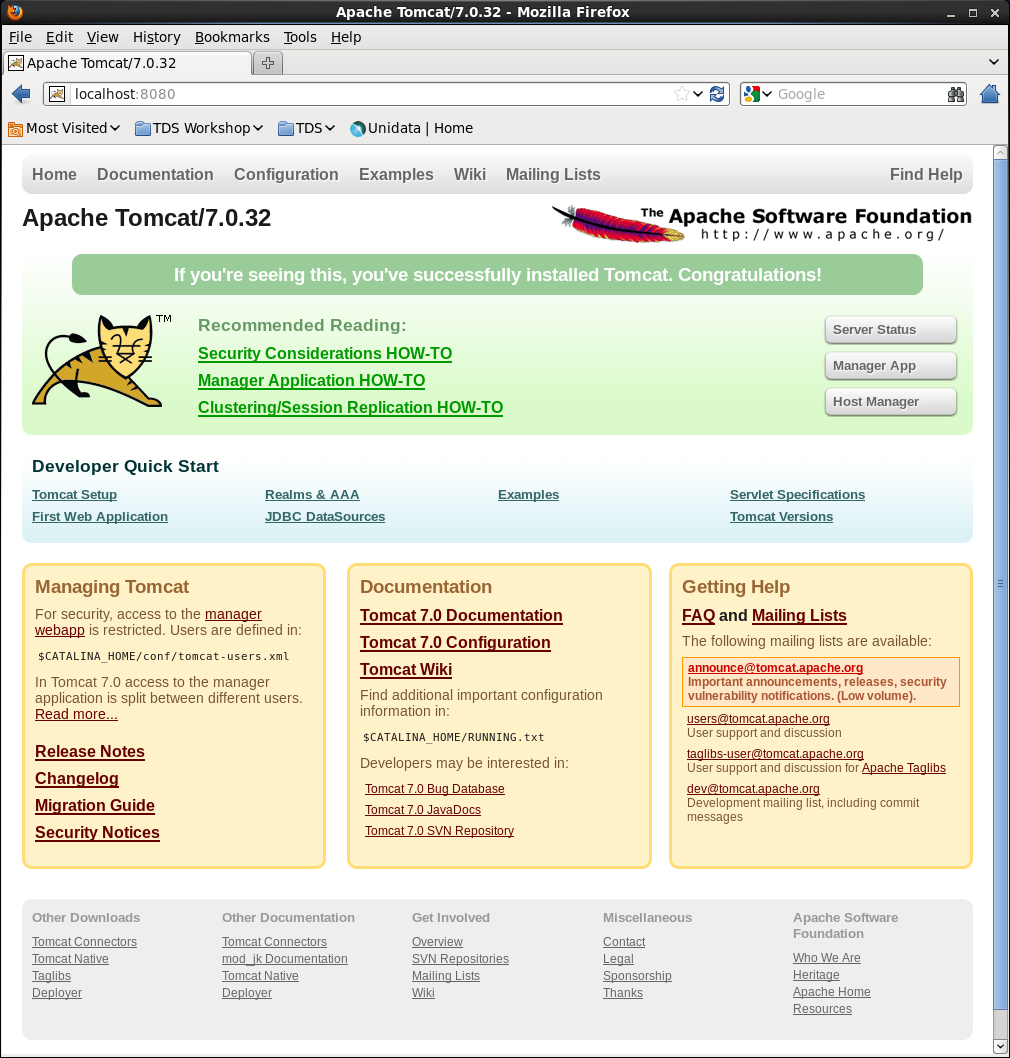
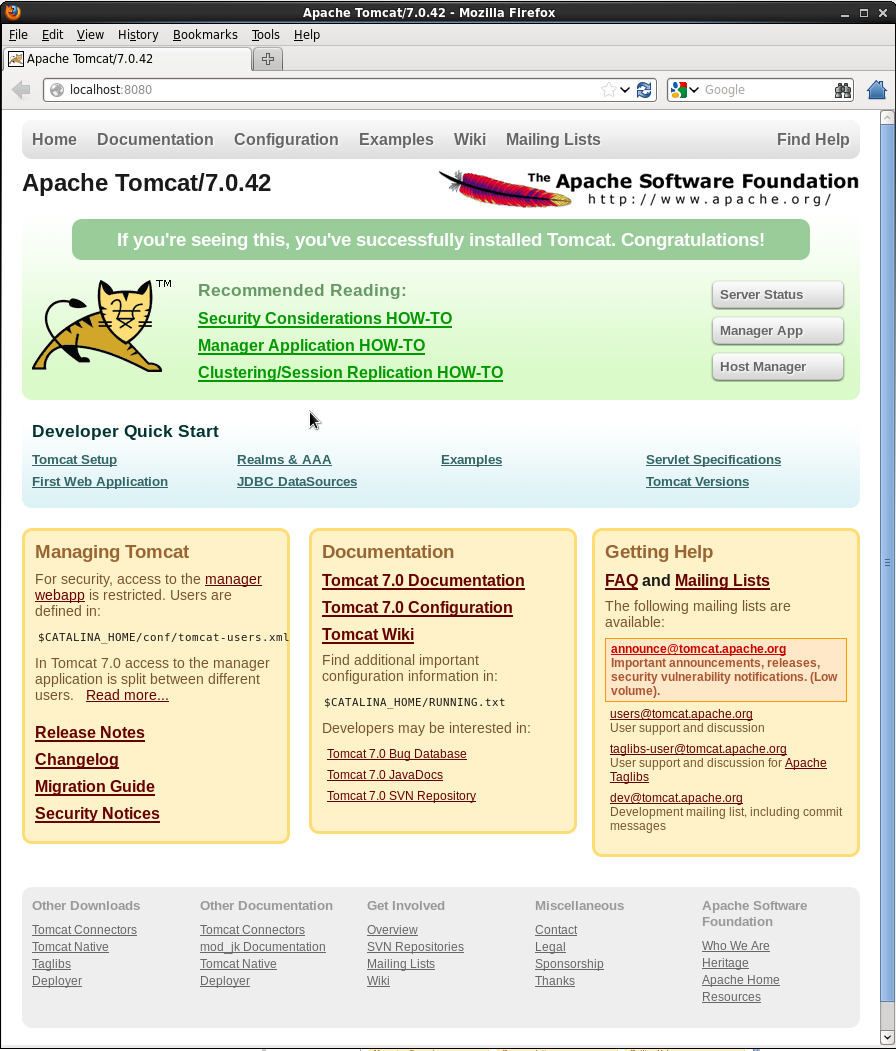
updated for 2013 workshop

diff --git a/docs/web/thredds/tech/tds4.3/tutorial/GettingStarted.html b/docs/web/thredds/tech/tds4.3/tutorial/GettingStarted.html
@@ -1,13 +1,17 @@
 <!DOCTYPE HTML PUBLIC "-//W3C//DTD HTML 4.01 Transitional//EN" "http://www.w3.org/TR/html4/loose.dtd">
  <html>
   <head>
-   <title>Getting started with the TDS: Local test server setup</title>
+   <title>TDS Tutorial: Getting started with the TDS: Local Test Server Setup</title>
    <link rel="stylesheet" href="tutorial2.css" type="text/css" /> 
-   <script type="text/javascript" src="workshopNav.js"></script>
+   <link rel="SHORTCUT ICON" href="http://www.unidata.ucar.edu/favicon.ico" type="image/x-icon" />
   </head>
   <body>
- 
-   <h1>Getting started with the TDS: local test server setup</h1>    
+   <ul id="breadcrumbs">
+    <li><a href="/projects/THREDDS/tech/tutorial/workshop2013.html">TDS Workshop Home</a></li> 
+    <li>Getting started with the TDS: Local Test Server Setup</li>
+   </ul>
+
+   <h1>Getting started with the TDS: Local Test Server Setup</h1>    
    <div id="section">
     <h2><a name="install">Installing Java and Tomcat</a></h2>
 
@@ -25,20 +29,31 @@
      <p>While there are different distributors of Java and servlet containers, Unidata develops, uses and tests the THREDDS Data Server using <i>Sun Java</i> and the <i>Apache Tomcat</i> servlet container.</p>
 
 
-     <h3>Installing Java<a name="installJava"></a></h3>
+     <h3>Installing Java</h3>
      <ol>
       <li><a href="http://www.oracle.com/technetwork/java/javase/downloads/">Download</a> current Java SE Developer Kit (JDK) from Sun. Use the latest 1.7 version of the JDK.</li>
        <p>At the time of this workshop, that is version <i>Java SE 7u25</i>.  We will be using the Linux x64-bit tar.gz file:</p>
        <p><code>jdk-7u25-linux-x64.tar.gz</code></p>
       <li>Install the JDK as per the Sun <a href="http://docs.oracle.com/javase/7/docs/webnotes/install/">installation instructions</a>.</li>
-        <p>Copy the binary tar.gz file into the installation directory (<code>/home/tds/</code> in this example):</p>
+        <p>Copy the binary tar.gz file into the installation directory (<code>/usr/local/tds/</code> in this example):</p>
 
 <pre>
 <b>$</b> pwd
-/home/tds
+/usr/local/tds
+<b>$</b> cp Downloads/jdk-7u25-linux-x64.tar.gz .
 
 <b>$</b> ls -l  
--rw-r--r-- 1 tds workshop 96316511 Jul 15 09:30 jdk-7u25-linux-x64.tar.gz
+drwxr-xr-x  2 tds workshop     4096 Jul 15 10:33 Desktop
+drwxr-xr-x  2 tds workshop     4096 Jul 15 10:33 Documents
+drwxr-xr-x  2 tds workshop     4096 Jul 22 17:29 Downloads
+<b>-rw-r--r--  1 tds workshop 96316511 Jul 15 09:30 jdk-7u25-linux-x64.tar.gz</b>
+drwxr-xr-x  2 tds workshop     4096 Jul 15 10:33 Music
+drwxr-xr-x  2 tds workshop     4096 Jul 15 10:33 Pictures
+drwxr-xr-x  2 tds workshop     4096 Jul 15 10:33 Public
+drwxr-xr-x  3 tds workshop     4096 Jul 15 10:45 tdsMonitor
+drwxr-xr-x  2 tds workshop     4096 Jul 15 10:33 Templates
+-rwxrwxr-x  1 tds workshop 27866303 Jul 15 10:02 toolsUI-4.3.18.jar
+drwxr-xr-x  2 tds workshop     4096 Jul 15 10:33 Videos
 </pre>
 
         <p>Unpack the archive file:</p>  
@@ -51,8 +66,18 @@
 
 <pre>
 <b>$</b> ls -l  
-<b>drwxr-xr-x 8 tds workshop     4096 Jun  5 22:07 jdk1.7.0_25</b>
--rw-r--r-- 1 tds workshop 96316511 Jul 15 09:30 jdk-7u25-linux-x64.tar.gz
+drwxr-xr-x  2 tds workshop     4096 Jul 15 10:33 Desktop
+drwxr-xr-x  2 tds workshop     4096 Jul 15 10:33 Documents
+drwxr-xr-x  2 tds workshop     4096 Jul 23 14:40 Downloads
+<b>drwxr-xr-x  8 tds workshop     4096 Jun  5 22:07 jdk1.7.0_25</b>
+-rw-r--r--  1 tds workshop 96316511 Jul 15 09:30 jdk-7u25-linux-x64.tar.gz
+drwxr-xr-x  2 tds workshop     4096 Jul 15 10:33 Music
+drwxr-xr-x  2 tds workshop     4096 Jul 15 10:33 Pictures
+drwxr-xr-x  2 tds workshop     4096 Jul 15 10:33 Public
+drwxr-xr-x  3 tds workshop     4096 Jul 15 10:45 tdsMonitor
+drwxr-xr-x  2 tds workshop     4096 Jul 15 10:33 Templates
+-rwxrwxr-x  1 tds workshop 27866303 Jul 15 10:02 toolsUI-4.3.18.jar
+drwxr-xr-x  2 tds workshop     4096 Jul 15 10:33 Videos
 </pre>
 
       <div id="expanded" class="troubleshooting">
@@ -66,7 +91,7 @@
 
 
 
-      <h3>Installing Tomcat<a name="installTomcat"></a></h3>
+     <h3>Installing Tomcat</h3>
     <div id="note" class="info">
      <h4>Tomcat on Windows</h4>
      <p>For more information about installing Tomcat on Windows OS, see the <a href="http://tomcat.apache.org/tomcat-7.0-doc/setup.html#Windows">Tomcat setup guide</a> for installation on different platforms.</p>
@@ -76,16 +101,26 @@
         <p>At the time of this workshop, that is version <i>7.0.42</i>. We will be using the binary tar.gz file:</p>
         <p><code>apache-tomcat-7.0.42.tar.gz</code></p>
        <li>Install Tomcat as per the Apache Tomcat <a href="http://tomcat.apache.org/tomcat-7.0-doc/setup.html">installation instructions</a>.</li>
-        <p>Copy the binary tar.gz file into the installation directory (<code>/home/tds/</code> in this example):</p>
+        <p>Copy the binary tar.gz file into the installation directory (<code>/usr/local/tds/</code> in this example):</p>
 
 <pre>
 <b>$</b> pwd
-/home/tds/
+/usr/local/tds
 
 <b>$</b> ls -l 
 <b>-rw-r--r-- 1 tds workshop  7955948 Jul 15 09:35 apache-tomcat-7.0.42.tar.gz</b>
-drwxr-xr-x 8 tds workshop     4096 Jun  5 22:07 jdk1.7.0_25
--rw-r--r-- 1 tds workshop 96316511 Jul 15 09:30 jdk-7u25-linux-x64.tar.gz
+drwxr-xr-x  2 tds workshop     4096 Jul 15 10:33 Desktop
+drwxr-xr-x  2 tds workshop     4096 Jul 15 10:33 Documents
+drwxr-xr-x  2 tds workshop     4096 Jul 23 14:40 Downloads
+drwxr-xr-x  8 tds workshop     4096 Jun  5 22:07 jdk1.7.0_25
+-rw-r--r--  1 tds workshop 96316511 Jul 15 09:30 jdk-7u25-linux-x64.tar.gz
+drwxr-xr-x  2 tds workshop     4096 Jul 15 10:33 Music
+drwxr-xr-x  2 tds workshop     4096 Jul 15 10:33 Pictures
+drwxr-xr-x  2 tds workshop     4096 Jul 15 10:33 Public
+drwxr-xr-x  3 tds workshop     4096 Jul 15 10:45 tdsMonitor
+drwxr-xr-x  2 tds workshop     4096 Jul 15 10:33 Templates
+-rwxrwxr-x  1 tds workshop 27866303 Jul 15 10:02 toolsUI-4.3.18.jar
+drwxr-xr-x  2 tds workshop     4096 Jul 15 10:33 Videos
 </pre>
 
         <p>Unpack the archive file:</p>  
@@ -100,8 +135,18 @@ drwxr-xr-x 8 tds workshop     4096 Jun  5 22:07 jdk1.7.0_25
 <b>$</b> ls -l
 <b>drwxr-xr-x 9 tds workshop     4096 Jul 15 09:37 apache-tomcat-7.0.42</b>
 -rw-r--r-- 1 tds workshop  7955948 Jul 15 09:35 apache-tomcat-7.0.42.tar.gz
-drwxr-xr-x 8 tds workshop     4096 Jun  5 22:07 jdk1.7.0_25
--rw-r--r-- 1 tds workshop 96316511 Jul 15 09:30 jdk-7u25-linux-x64.tar.gz
+drwxr-xr-x  2 tds workshop     4096 Jul 15 10:33 Desktop
+drwxr-xr-x  2 tds workshop     4096 Jul 15 10:33 Documents
+drwxr-xr-x  2 tds workshop     4096 Jul 23 14:40 Downloads
+drwxr-xr-x  8 tds workshop     4096 Jun  5 22:07 jdk1.7.0_25
+-rw-r--r--  1 tds workshop 96316511 Jul 15 09:30 jdk-7u25-linux-x64.tar.gz
+drwxr-xr-x  2 tds workshop     4096 Jul 15 10:33 Music
+drwxr-xr-x  2 tds workshop     4096 Jul 15 10:33 Pictures
+drwxr-xr-x  2 tds workshop     4096 Jul 15 10:33 Public
+drwxr-xr-x  3 tds workshop     4096 Jul 15 10:45 tdsMonitor
+drwxr-xr-x  2 tds workshop     4096 Jul 15 10:33 Templates
+-rwxrwxr-x  1 tds workshop 27866303 Jul 15 10:02 toolsUI-4.3.18.jar
+drwxr-xr-x  2 tds workshop     4096 Jul 15 10:33 Videos
 </pre>
       </ol>
 
@@ -189,7 +234,7 @@ drwxr-xr-x 2 tds workshop  4096 Jul  2 01:57 work
         <p>Run the <code>startup.sh</code> script in the Tomcat <code>bin/</code> directory:</p>
 <pre>
 <b>$</b> pwd
-/home/tds/apache-tomcat-7.0.42
+/usr/local/tds/apache-tomcat-7.0.42
 
 <b>$</b> bin/startup.sh
 </pre>
@@ -199,7 +244,7 @@ drwxr-xr-x 2 tds workshop  4096 Jul  2 01:57 work
 
 <pre>
 <b>$</b> ps -ef | grep tomcat
-tds      21912     1 29 09:39 pts/1    00:00:02 /usr/bin/java -Djava.util.logging.config.file=/home/tds/apache-tomcat-7.0.42/conf/logging.properties -Djava.util.logging.manager=org.apache.juli.ClassLoaderLogManager -Djava.endorsed.dirs=/home/tds/apache-tomcat-7.0.42/endorsed -classpath /home/tds/apache-tomcat-7.0.42/bin/bootstrap.jar:/home/tds/apache-tomcat-7.0.42/bin/tomcat-juli.jar -Dcatalina.base=/home/tds/apache-tomcat-7.0.42 -Dcatalina.home=/home/tds/apache-tomcat-7.0.42 -Djava.io.tmpdir=/home/tds/apache-tomcat-7.0.42/temp org.apache.catalina.startup.Bootstrap start
+tds      21912     1 29 09:39 pts/1    00:00:02 /usr/bin/java -Djava.util.logging.config.file=/usr/local/tds/apache-tomcat-7.0.42/conf/logging.properties -Djava.util.logging.manager=org.apache.juli.ClassLoaderLogManager -Djava.endorsed.dirs=/usr/local/tds/apache-tomcat-7.0.42/endorsed -classpath /usr/local/tds/apache-tomcat-7.0.42/bin/bootstrap.jar:/usr/local/tds/apache-tomcat-7.0.42/bin/tomcat-juli.jar -Dcatalina.base=/usr/local/tds/apache-tomcat-7.0.42 -Dcatalina.home=/usr/local/tds/apache-tomcat-7.0.42 -Djava.io.tmpdir=/usr/local/tds/apache-tomcat-7.0.42/temp org.apache.catalina.startup.Bootstrap start
 tds      21933 21675  0 09:39 pts/1    00:00:00 grep tomcat
 </pre>
 
@@ -248,7 +293,7 @@ tds      21933 21675  0 09:39 pts/1    00:00:00 grep tomcat
 
 <pre>
 <b>$</b> pwd
-/home/tds/apache-tomcat-7.0.42
+/usr/local/tds/apache-tomcat-7.0.42
 
 <b>$</b> cd bin
 <b>$</b> vi setenv.sh
@@ -260,13 +305,13 @@ tds      21933 21675  0 09:39 pts/1    00:00:00 grep tomcat
 #
 # ENVARS for Tomcat and TDS environment
 #
-JAVA_HOME="/home/tds/jdk1.7.0_25"
+JAVA_HOME="/usr/local/tds/jdk1.7.0_25"
 export JAVA_HOME
 
 JAVA_OPTS="-Xmx4096m -Xms512m -server -Djava.awt.headless=true -Djava.util.prefs.systemRoot=$CATALINA_BASE/content/thredds/javaUtilPrefs"
 export JAVA_OPTS
 
-CATALINA_BASE="/home/tds/apache-tomcat-7.0.42"
+CATALINA_BASE="/usr/local/tds/apache-tomcat-7.0.42"
 export CATALINA_BASE
 </pre>
      <div id="note" class="info">
@@ -277,7 +322,7 @@ export CATALINA_BASE
      <ul>
       <li><code>-Xms</code> is the initial allocated memory of the JVM (for performance).</li>
       <li><code>-Xmx</code> the maximum allocated memory of the JVM (for performance).</li>
-      <li><code>-server</code> tells the Hotspot compiler to run the JVM in "server" mode.</li>
+      <li><code>-server</code> tells the Hostspot compiler to run the JVM in "server" mode.</li>
       <li><code>-Djava.awt.headless=true</code> is needed to prevent graphics rendering code from assuming a graphics console exists. Without this, WMS code will crash the server in some circumstances.</li>
       <li><code style="white-space: nowrap;">-Djava.util.prefs.systemRoot=$CATALINA_BASE/content/thredds/javaUtilPrefs</code> allows the <a href="http://www.unidata.ucar.edu/projects/THREDDS/tech/tds4.3/faq.html#javaUtilPrefs">java.util.prefs</a> of the TDS WMS to write system preferences to a location that is writable by the Tomcat user.</li>
      </ul>
@@ -291,11 +336,11 @@ export CATALINA_BASE
 
 <pre>
 <b>$</b> ./startup.sh
-Using CATALINA_BASE:   /home/tds/apache-tomcat-7.0.42
-Using CATALINA_HOME:   /home/tds/apache-tomcat-7.0.42
-Using CATALINA_TMPDIR: /home/tds/apache-tomcat-7.0.42/temp
-Using JRE_HOME:        /home/tds/jdk1.7.0_25
-Using CLASSPATH:       /home/tds/apache-tomcat-7.0.42/bin/bootstrap.jar:/home/tds/apache-tomcat-7.0.42/bin/tomcat-juli.jar
+Using CATALINA_BASE:   /usr/local/tds/apache-tomcat-7.0.42
+Using CATALINA_HOME:   /usr/local/tds/apache-tomcat-7.0.42
+Using CATALINA_TMPDIR: /usr/local/tds/apache-tomcat-7.0.42/temp
+Using JRE_HOME:        /usr/local/tds/jdk1.7.0_25
+Using CLASSPATH:       /usr/local/tds/apache-tomcat-7.0.42/bin/bootstrap.jar:/usr/local/tds/apache-tomcat-7.0.42/bin/tomcat-juli.jar
 </pre>
       <div id="expanded" class="question">
        <p>Did you notice any difference in the what is being reported to <code>STDOUT</code> during startup?</p>
@@ -305,7 +350,7 @@ Using CLASSPATH:       /home/tds/apache-tomcat-7.0.42/bin/bootstrap.jar:/home/td
 
 <pre>
 <b>$</b> ps -ef | grep tomcat
-tds      22007     1  9 09:44 pts/1    00:00:02 /home/tds/jdk1.7.0_25/bin/java -Djava.util.logging.config.file=/home/tds/apache-tomcat-7.0.42/conf/logging.properties -Djava.util.logging.manager=org.apache.juli.ClassLoaderLogManager <b>-Xmx4096m -Xms512m -server -Djava.awt.headless=true -Djava.util.prefs.systemRoot=/home/tds/apache-tomcat-7.0.42/content/thredds/javaUtilPrefs</b> -Djava.endorsed.dirs=/home/tds/apache-tomcat-7.0.42/endorsed -classpath /home/tds/apache-tomcat-7.0.42/bin/bootstrap.jar:/home/tds/apache-tomcat-7.0.42/bin/tomcat-juli.jar -Dcatalina.base=/home/tds/apache-tomcat-7.0.42 -Dcatalina.home=/home/tds/apache-tomcat-7.0.42 -Djava.io.tmpdir=/home/tds/apache-tomcat-7.0.42/temp org.apache.catalina.startup.Bootstrap start
+tds      22007     1  9 09:44 pts/1    00:00:02 /usr/local/tds/jdk1.7.0_25/bin/java -Djava.util.logging.config.file=/usr/local/tds/apache-tomcat-7.0.42/conf/logging.properties -Djava.util.logging.manager=org.apache.juli.ClassLoaderLogManager <b>-Xmx4096m -Xms512m -server -Djava.awt.headless=true -Djava.util.prefs.systemRoot=/usr/local/tds/apache-tomcat-7.0.42/content/thredds/javaUtilPrefs</b> -Djava.endorsed.dirs=/usr/local/tds/apache-tomcat-7.0.42/endorsed -classpath /usr/local/tds/apache-tomcat-7.0.42/bin/bootstrap.jar:/usr/local/tds/apache-tomcat-7.0.42/bin/tomcat-juli.jar -Dcatalina.base=/usr/local/tds/apache-tomcat-7.0.42 -Dcatalina.home=/usr/local/tds/apache-tomcat-7.0.42 -Djava.io.tmpdir=/usr/local/tds/apache-tomcat-7.0.42/temp org.apache.catalina.startup.Bootstrap start
 tds      22030 21675  0 09:44 pts/1    00:00:00 grep tomcat
 </pre>
      <div id="note" class="info">
@@ -342,13 +387,13 @@ WARNING: Couldn't flush system prefs: java.util.prefs.BackingStoreException: /et
 #
 # ENVARS for Tomcat and TDS environment
 #
-JAVA_HOME="/home/tds/jdk1.7.0_25"
+JAVA_HOME="/usr/local/tds/jdk1.7.0_25"
 export JAVA_HOME
 
 JAVA_OPTS="-Xmx4096m -Xms512m -server -Djava.awt.headless=true <b>-Djava.util.prefs.systemRoot=$CATALINA_BASE/content/thredds/javaUtilPrefs</b>"
 export JAVA_OPTS
 
-CATALINA_BASE="/home/tds/apache-tomcat-7.0.42"
+CATALINA_BASE="/usr/local/tds/apache-tomcat-7.0.42"
 export CATALINA_BASE
 </pre>
       </ul>
@@ -371,7 +416,7 @@ export CATALINA_BASE
 
 <pre>
 <b>$</b> pwd
-/home/tds/apache-tomcat-7.0.42/webapps
+/usr/local/tds/apache-tomcat-7.0.42/webapps
 <b>$</b> cd ../logs
 
 <b>$</b> ls -l
@@ -396,7 +441,7 @@ export CATALINA_BASE
        <li>Examining <code>catalina.out</code>.</li>
         <p>Open another terminal window (hereafter referred to as terminal #2) and run the following command in the new terminal:</p>
 <pre>
-<b>$</b> tail -f /home/tds/apache-tomcat-7.0.42/logs/catalina.out
+<b>$</b> tail -f /usr/local/tds/apache-tomcat-7.0.42/logs/catalina.out
 </pre>
 <p>In your original terminal window, start/stop and start Tomcat and watch what is being logged to <code>catalina.out</code> in the terminal #2 window.</p>
       <div id="expanded" class="question">
@@ -458,7 +503,7 @@ export CATALINA_BASE
          <p>Move into the Tomcat <code>conf/</code> directory and examine the <code>server.xml</code> file:</p>
 <pre>
 <b>$</b> pwd
-/home/tds/apache-tomcat-7.0.42/logs
+/usr/local/tds/apache-tomcat-7.0.42/logs
 <b>$</b> cd ../conf
 
 <b>$</b> less server.xml
@@ -631,7 +676,7 @@ export CATALINA_BASE
          <p>Open the <code>tomcat-users.xml</code> file:</p>
 <pre>
 <b>$</b> pwd
-/home/tds/apache-tomcat-7.0.42/conf
+/usr/local/tds/apache-tomcat-7.0.42/conf
 
 <b>$</b> less tomcat-users.xml
 </pre>  
@@ -734,7 +779,7 @@ export CATALINA_BASE
 
 <pre>
 <b>$</b> pwd
-/home/tds/apache-tomcat-7.0.42/bin
+/usr/local/tds/apache-tomcat-7.0.42/bin
 <b>$</b> cd ../webapps
 
 <b>$</b> mv ~/thredds.war .
@@ -769,7 +814,7 @@ drwxr-xr-x  3 tds workshop     4096 Jul 15 09:37 ROOT
        <p>Move into <code>${tomcat_home}</code> and do a long listing:</p>
 <pre>
 <b>$</b> pwd
-/home/tds/apache-tomcat-7.0.42/webapps
+/usr/local/tds/apache-tomcat-7.0.42/webapps
 <b>$</b> cd ..
 
 <b>$</b> ls -l 
@@ -914,7 +959,7 @@ drwxr-xr-x 3 tds workshop  4096 Jul 15 09:39 work
         <p>List the contents of the Tomcat <code>webapps/</code> directory to verify that both <code>thredds.war</code> and the unpacked <code>thredds/</code> directory have been removed:</p>
 <pre>
 <b>$</b> pwd
-/home/tds/apache-tomcat-7.0.42/conf
+/usr/local/tds/apache-tomcat-7.0.42/conf
 <b>$</b> cd ../webapps
 
 <b>$</b> ls -l
@@ -966,6 +1011,13 @@ drwxr-xr-x  3 tds workshop     4096 Jul 15 09:37 ROOT
    </div> <!-- end section -->
 
 
+  <p class="notice">This document is maintained by Unidata.  Send comments to <a href="mailto:support-thredds@unidata.ucar.edu">THREDDS support</a>. Last updated <script language="JavaScript" type="text/JavaScript">document.write(date_modified);</script>  </p>
+
+   
+   <ul id="breadcrumbs">
+    <li><a href="/projects/THREDDS/tech/tutorial/workshop2013.html">TDS Workshop Home</a></li> 
+    <li>Getting Started: Tomcat, Java and the TDS</li>
+   </ul>
 
 
   </body>

diff --git a/docs/web/thredds/tech/tds4.3/tutorial/workshop2013.html b/docs/web/thredds/tech/tds4.3/tutorial/workshop2013.html
@@ -24,7 +24,7 @@
   </ul>
 
 
-    <h3>9:00 (Jenn) <a href="GettingStarted.html">Getting started with the TDS: Local test server setup</a></h3>
+    <h3>9:00 (Jenn) <a href="GettingStarted.html">Getting started with the TDS: Local Test Server Setup</a></h3>
      <p>This section covers basic installation and configuration of Tomcat, JDK and the TDS for a local test server.</p>
     <ul>
         <li><a href="GettingStarted.html#install">Installing Java and Tomcat</a></li>
